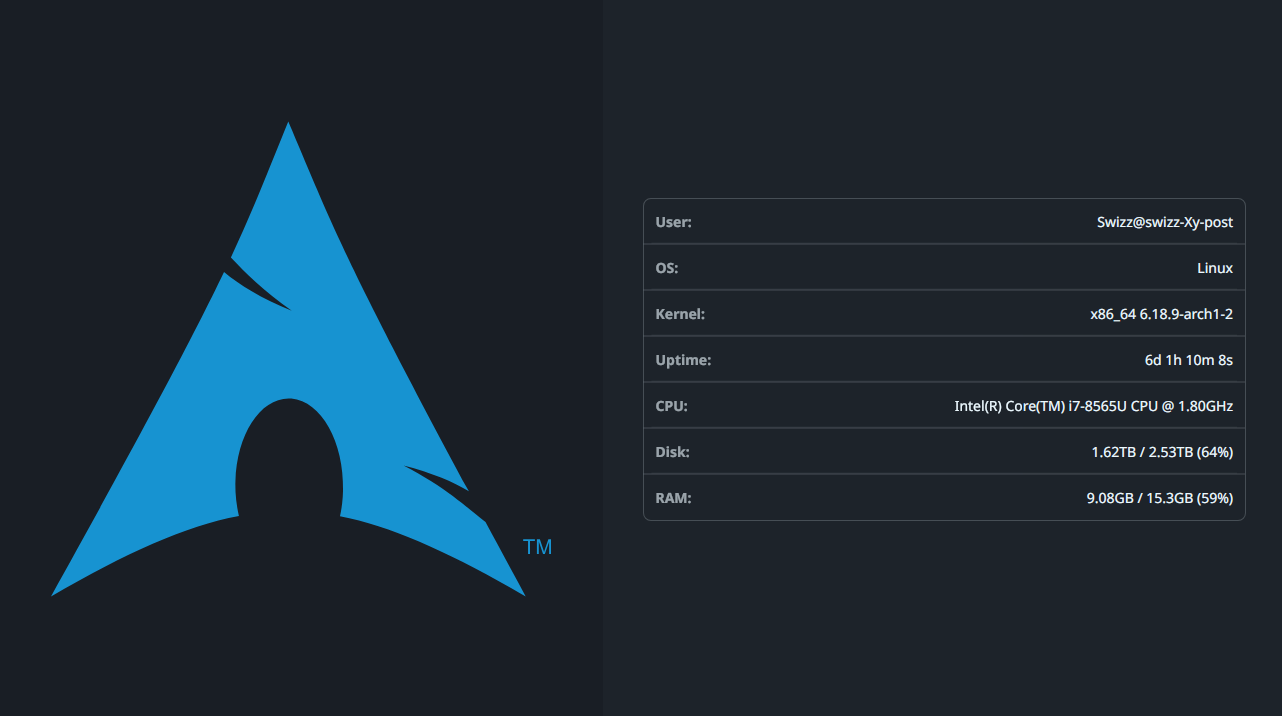
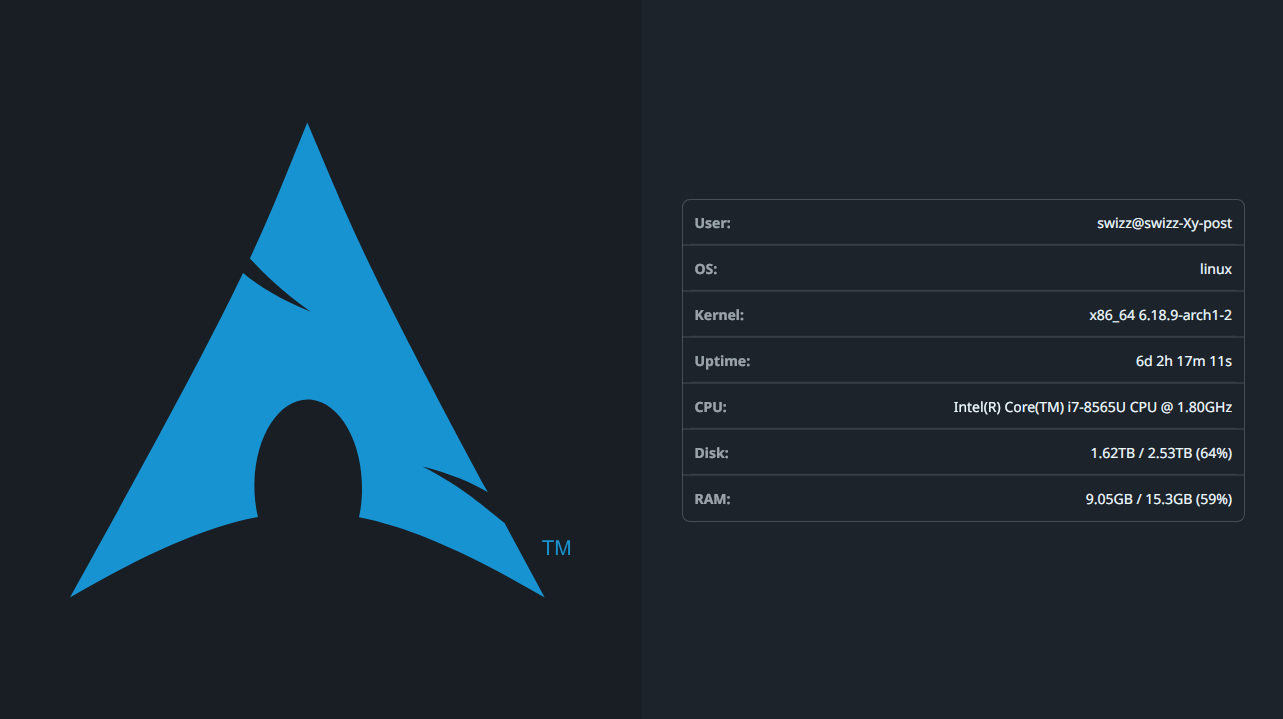
Fix CSS spacing for a 50/50 split

diff --git a/frontend/index.html b/frontend/index.html
@@ -1,4 +1,4 @@
-<main class="grid grid-cols-1 md:grid-cols-2 gap-10 items-center pr-10">
+<main class="grid grid-cols-1 md:grid-cols-2 items-center">
 	<div class="flex h-full bg-base-300/45 justify-center items-center">
 		<img
 			class="max-h-[500px] object-contain self-center"
@@ -6,7 +6,7 @@
 			:alt="(os || platform) && `${platform} ${os}`"
 		>
 		</div>
-		<div class="card border border-base-content/20 font-mono">
+		<div class="card border border-base-content/20 font-mono mx-10">
 			<ul class="list p-0">
 				<li class="list-row border-b border-base-content/20 rounded-none p-3">
 					<label class="list-col-grow font-bold opacity-60">User:</label>
